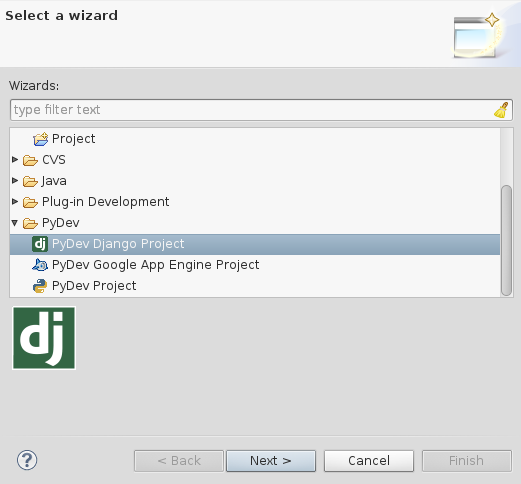
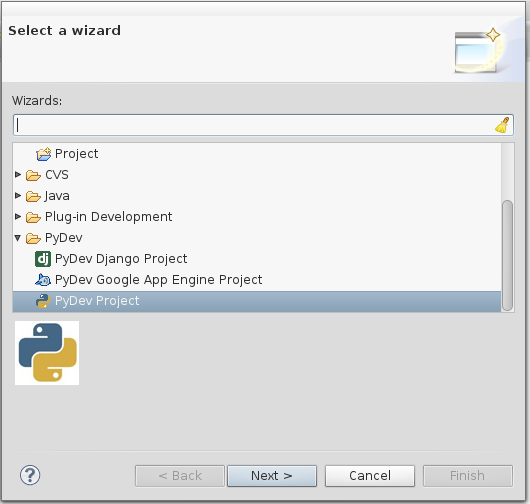
Eclipse devel docs

Changed region(s): [[0.0, 0.0, 1.0, 1.0]]

diff --git a/docs/devel/source/ide.rst b/docs/devel/source/ide.rst
@@ -9,13 +9,19 @@ development environment.
 Eclipse with PyDev
 ======================
 
-Start by creating a new PyDev Django Project:
+Start by creating a new **PyDev** Project.
+
+.. warning::
+
+    Don't create a Django project! It'll overwrite manage.py and create other
+    files. We'll convert it to a Django project later.
 
 .. image:: new_pydev_project.png
 
 
-* Type a name for the project --- e,g ``OpenKnesset``.
-* Check "Use default" if unchecked.
+* Click "Next" and type a name for the project --- e,g ``OpenKnesset``.
+* Uncheck "Use default" if checked, click "Browse", navigate to the virtualenv
+  and selected the previously cloned "Open-Knesset" directory.
 * Click the link named "Click here to configure an interpreter not listed".
 
   In the opened window, click "New", and in the opened window "browse". Navigate
@@ -30,37 +36,31 @@ Start by creating a new PyDev Django Project:
 
   Now you're back in the Project's dialog.
   Select the interpreter you've just added.
-* Make sure "Don't configure PYTHONPATH" is selected, we'll handle it later.
+* Make sure "Add project directory to the  PYTHONPATH" is selected.
 
 You should have something like:
 
 .. image:: pydev_project_dialog.png
 
-* Click "Next". In the "Reference Page" click "Next" again.
-* Ignore everything you have in  "Django Settings" page and click "Finish".
-
-
-Now you should have the project in the PyDev Package explorer (left side). In
-the project, delete the "OpenKnesset" folder and  "manage.py":
-
-.. image:: pydev_delete_folder.png
-
-Let's add our project source code:
-
-* Right click the project in the Package explorer, select "New" and "Folder".
-* Click "Advanced", and select "Link to alternate location".
-* Click "Browse", navigate and select the "Open-Knesset" folder you've cloned
-  earlier.
-* Click "Finish".
-
-The folder is added (and linked). Now it's to configure the django project to
-use it:
-
+* Click "Finish", and switch to the PyDev perspective (if the dialog appears).
+* Now you should have the project in the PyDev Package explorer (left side).
+  In the project. Right click it and select "PyDev" | "Set as Django project".
 * Right click the project and select "Properties".
-* Select "PyDev - PYTHONPATH" and click "Add source folder".
-* Select the **Open-Knesset** directory (expand the project if needed) and
-  "Apply".
-* Select "PyDev - Django"
-* In "Django manage.py" enter "Open-Knesset/manage.py"
-* In "Django settings module" enter "knesset.settings"
+* Select "PyDev - Django", and enter ``manage.py`` int "Django manage.py" and
+  ``knesset.settings`` in "Django settings module".
 
+  .. image:: pydev_django_settings.png
+
+  Click "OK".
+* Create a run configuration for your project (to make sure it'll find the
+  database, etc.):
+  
+  * Right click the project, select "Run As" | "Run configurations".
+  * Right click "PyDev Django" and select "New".
+  * Give it a name (e.g. "oknesset Django")
+  * In the Project field click "Browser" and select you project.
+  * In Main Module, click browse and select "manage.py".
+  * In the "Arguments" tab click, in "Program arguments" enter
+    ``runserver --noreload``.
+  * Click "Run", you should be able to open your browser and access
+    http://localhost:8000 . You can use this run configration from now on.
